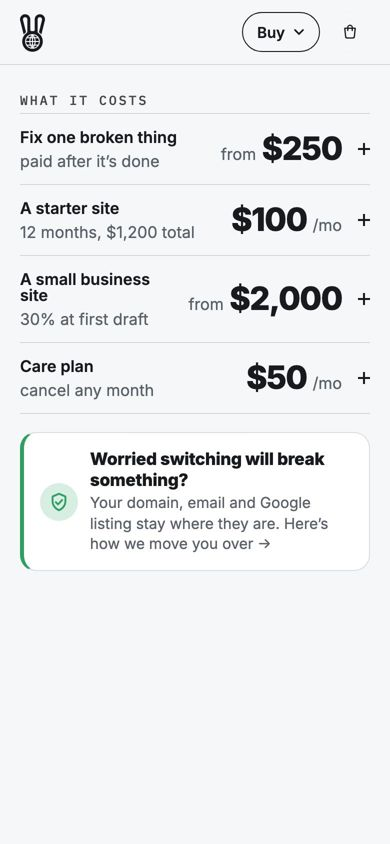
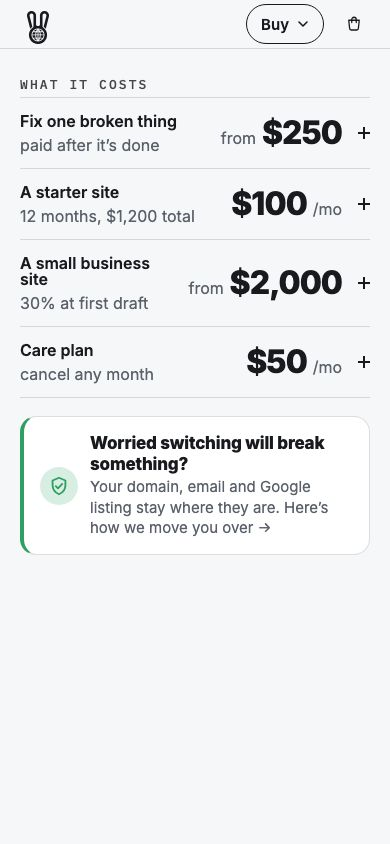
Phones: bigger hero bunny (about 37% of the screen), swipeable row of phone previews with one label and position dots, nav hidden on the hero then a slim sticky bar
The row replaces the trade pills on phones: the centred slide is the chosen shop (its site live, the rest posters;
touches pass through so a swipe never gets stuck in a shop), the Open button and sentence follow it, subtitle says
swipe. The row's min-width:0 keeps it from widening the page. Desktop positions unchanged (checked at 1024 and 1440).
Tests updated first; screenshots re-shot.

diff --git a/bunnyworld/landing.js b/bunnyworld/landing.js
@@ -24,18 +24,20 @@
       const f = sc.querySelector('iframe'), p = sc.querySelector('.poster');
       const kind = sc.closest('.phone') ? 'phone' : 'laptop';
       p.src = `${B}/poster-${k}-${kind}.webp`; sc.classList.remove('live');
-      if (kind === 'laptop' && phoneOnly()) { f.removeAttribute('src'); return; }
+      if (phoneOnly()) { f.removeAttribute('src'); return; }   // phones: the row of previews below runs the chosen shop instead
       f.onload = () => { if (f.getAttribute('src')) sc.classList.add('live'); };
       f.src = `${k}/`;
       f.title = `${t.dataset.name} demo site${kind === 'phone' ? ' on a phone' : ''}, live`;
     });
   };
+  let fromRail = false;
   const select = (t, focus) => {
     if (t === cur && seen) return;
     tabs.forEach(x => { const on = x === t; x.setAttribute('aria-selected', on); x.tabIndex = on ? 0 : -1; });
     stage.setAttribute('aria-labelledby', t.id);
     openShop.href = t.dataset.shop + '/'; openShop.querySelector('b').textContent = t.dataset.name; say.textContent = t.dataset.say;
     pcSync(t);
+    if (!fromRail) railTo(tabs.indexOf(t)); railLive(t);
     stage.classList.remove('swap'); void stage.offsetWidth; if (!reduce) stage.classList.add('swap');
     cur = t; if (seen) load(t);
     if (focus) t.focus();
@@ -49,7 +51,7 @@
       if (j >= 0) { ev.preventDefault(); select(tabs[j], true); }
     });
   });
-  new IntersectionObserver((es, o) => { if (es.some(x => x.isIntersecting)) { seen = true; load(cur); fit(); o.disconnect(); } }, { rootMargin: '300px' }).observe(stage);
+  new IntersectionObserver((es, o) => { if (es.some(x => x.isIntersecting)) { seen = true; load(cur); fit(); railLive(cur); o.disconnect(); } }, { rootMargin: '300px' }).observe(stage);
   addEventListener('resize', () => { if (seen) { const want = phoneOnly(); const has = !!document.querySelector('.laptop iframe').getAttribute('src'); if (want === has) load(cur); } });
 
   /* ---- the switching FAQ: a callout that opens in place into an accordion; deep links #faq-… open straight to a question ---- */
@@ -112,6 +114,39 @@
 
   /* phones: the three "pages" size themselves to the screen minus the demo bar and the sticky bar (brand.css) */
   const topBars = () => { const c = document.querySelector('.credit'), n = document.querySelector('.nav'); if (!c || !n) return;
-    document.documentElement.style.setProperty('--nav-h', n.offsetHeight + 'px'); document.documentElement.style.setProperty('--top-h', (c.offsetHeight + n.offsetHeight) + 'px'); };
+    document.documentElement.style.setProperty('--nav-h', n.offsetHeight + 'px'); document.documentElement.style.setProperty('--top-h', (c.offsetHeight + (getComputedStyle(n).position === 'fixed' ? 0 : n.offsetHeight)) + 'px'); };
   topBars(); addEventListener('resize', topBars); addEventListener('load', topBars);
+
+  /* ---- phones: a swipeable row of phone previews in place of the trade pills (HQ for Tristan, 2026-11-16) ---- */
+  function railBuild() {
+    const esc = x => String(x).replace(/[&<>"]/g, c => ({ '&': '&amp;', '<': '&lt;', '>': '&gt;', '"': '&quot;' })[c]);
+    const r = document.createElement('div'); r.className = 'rail'; r.tabIndex = 0; r.setAttribute('role', 'group'); r.setAttribute('aria-label', 'Shops on Main Street: swipe to choose one');
+    r.innerHTML = tabs.map((t, i) => `<figure class="rail-s" data-i="${i}"><div class="rail-ph"><div class="screen" data-w="390"><img class="poster" src="${B}/poster-${t.dataset.shop}-phone.webp" alt="" width="390" height="844" loading="lazy"><iframe title="${esc(t.dataset.name)} demo site on a phone, live" tabindex="-1" loading="lazy"></iframe></div></div><figcaption><b>${esc(t.querySelector('.ts').textContent)}</b> ${esc(t.dataset.name)}</figcaption></figure>`).join('');
+    stage.insertBefore(r, stage.querySelector('.show-foot'));
+    const dots = document.createElement('div'); dots.className = 'rail-dots'; dots.setAttribute('aria-hidden', 'true'); dots.innerHTML = tabs.map(() => '<i></i>').join('');
+    stage.insertBefore(dots, stage.querySelector('.show-foot'));
+    let tid = 0;
+    const settle = () => { const mid = r.scrollLeft + r.clientWidth / 2; let best = 0, d = 1e9;
+      r.querySelectorAll('.rail-s').forEach((s, i) => { const c = s.offsetLeft + s.offsetWidth / 2; if (Math.abs(c - mid) < d) { d = Math.abs(c - mid); best = i; } });
+      if (tabs[best] !== cur) { fromRail = true; select(tabs[best]); fromRail = false; } else railLive(cur); };
+    r.addEventListener('scroll', () => { clearTimeout(tid); tid = setTimeout(settle, 120); }, { passive: true });
+    return r;
+  }
+  const rail = railBuild();
+  function railTo(i) { if (!phoneOnly() || i < 0) return; const s = rail.querySelectorAll('.rail-s')[i]; rail.scrollTo({ left: s.offsetLeft - (rail.clientWidth - s.offsetWidth) / 2, behavior: reduce ? 'auto' : 'smooth' }); }
+  /* only the chosen slide runs its site live (the others show their posters), and only once the section is near */
+  function railLive(t) { const k = tabs.indexOf(t);
+    rail.querySelectorAll('.rail-s').forEach((s, i) => { const f = s.querySelector('iframe'), sc = s.querySelector('.screen'), on = i === k; s.classList.toggle('on', on); const d = document.querySelectorAll('#shops .rail-dots i')[i]; if (d) d.classList.toggle('on', on);
+      if (on && seen && phoneOnly()) { if (!f.getAttribute('src')) { f.onload = () => sc.classList.add('live'); f.src = t.dataset.shop + '/'; }
+        const kk = sc.clientWidth / 390; f.style.width = '390px'; f.style.height = (sc.clientHeight / kk) + 'px'; f.style.transform = `scale(${kk})`; }
+      else if (f.getAttribute('src')) { f.removeAttribute('src'); sc.classList.remove('live'); } }); }
+  new IntersectionObserver((es, o) => { if (es.some(x => x.isIntersecting)) { railLive(cur); o.disconnect(); } }, { rootMargin: '300px' }).observe(rail);
+  railLive(cur);
+
+  /* ---- phones: no nav on the hero page; a slim sticky bar once the hero has gone ---- */
+  const heroEl = document.querySelector('.hero');
+  /* shown once the hero's bottom reaches where the bar sits (so a page snapped under the bar always has it) */
+  let navRaf = 0; const navCheck = () => { navRaf = 0; const n = document.querySelector('.nav'); if (!heroEl || !n) return;
+    document.documentElement.classList.toggle('past-hero', heroEl.getBoundingClientRect().bottom <= n.offsetHeight + 1); };
+  addEventListener('scroll', () => { if (!navRaf) navRaf = requestAnimationFrame(navCheck); }, { passive: true }); addEventListener('resize', navCheck); navCheck();
 })();

diff --git a/bunnyworld/index.html b/bunnyworld/index.html
@@ -18,7 +18,7 @@ window.dataLayer=window.dataLayer||[];function gtag(){dataLayer.push(arguments);
 <link rel="preconnect" href="https://fonts.googleapis.com"><link rel="preconnect" href="https://fonts.gstatic.com" crossorigin>
 <link rel="stylesheet" href="https://fonts.googleapis.com/css2?family=Gabarito:wght@500;700;800;900&family=Big+Shoulders+Display:wght@900&family=Young+Serif&family=Fraunces:opsz,wght@9..144,900&family=Inter:wght@400;500;600;800&family=IBM+Plex+Mono:wght@500&family=Caveat:wght@600&display=swap">
 <link rel="stylesheet" href="/preview/assets/shop/cart.css">
-<link rel="stylesheet" href="brand.css?v=52">
+<link rel="stylesheet" href="brand.css?v=54">
 </head>
 <body>
 <div class="credit">A <span class="cr-wide">demo by </span><a class="credit-sog" href="https://seaofgrass.studio/">Sea of Grass</a><span class="cr-wide"> &middot; every shop works, nothing is sent</span><span class="cr-phone"> demo &middot; nothing is sent</span></div>
@@ -64,7 +64,7 @@ window.dataLayer=window.dataLayer||[];function gtag(){dataLayer.push(arguments);
 </div>
 
 <section class="show band" id="shops"><div class="in">
-<div class="show-head"><p class="kick">Main Street</p><h2>What kind of shop do you run?</h2><p class="show-sub"><span class="on-wide">Pick your trade and its site opens right here for you to try.</span><span class="on-phone">Tap your trade and its site opens right here.</span></p></div>
+<div class="show-head"><p class="kick">Main Street</p><h2>What kind of shop do you run?</h2><p class="show-sub"><span class="on-wide">Pick your trade and its site opens right here for you to try.</span><span class="on-phone">Swipe to see each shop&rsquo;s site.</span></p></div>
 <div class="show-grid">
 <div class="tabs" role="tablist" aria-label="Trades on Main Street" aria-orientation="vertical"><button class="tab" role="tab" id="tab-bunny-burritos" aria-controls="stage" aria-selected="true" tabindex="0" data-shop="bunny-burritos" data-name="Bunny Burritos" data-say="Bunny Burritos has a menu with filters, pickup ordering and table booking."><b class="tl">A restaurant</b><b class="ts">Restaurant</b><span class="tt">Bunny Burritos</span></button><button class="tab" role="tab" id="tab-bunny-auto" aria-controls="stage" aria-selected="false" tabindex="-1" data-shop="bunny-auto" data-name="Bunny Auto" data-say="Bunny Auto has a printed price list, an estimate tool and service booking."><b class="tl">An auto shop</b><b class="ts">Auto shop</b><span class="tt">Bunny Auto</span></button><button class="tab" role="tab" id="tab-warren-bakehouse" aria-controls="stage" aria-selected="false" tabindex="-1" data-shop="warren-bakehouse" data-name="The Warren Bakehouse" data-say="The Warren Bakehouse shows today&rsquo;s case live, and takes cake orders and pickup holds."><b class="tl">A bakery or café</b><b class="ts">Bakery</b><span class="tt">The Warren Bakehouse</span></button><button class="tab" role="tab" id="tab-hare-today" aria-controls="stage" aria-selected="false" tabindex="-1" data-shop="hare-today" data-name="Hare Today" data-say="Hare Today has a live chair board, booking by barber and a page for joining the crew."><b class="tl">A barber or salon</b><b class="ts">Barber</b><span class="tt">Hare Today</span></button><button class="tab" role="tab" id="tab-hop-along" aria-controls="stage" aria-selected="false" tabindex="-1" data-shop="hop-along" data-name="Hop Along" data-say="Hop Along has a live tap list, this week&rsquo;s events and back-room requests."><b class="tl">A bar or taproom</b><b class="ts">Bar</b><span class="tt">Hop Along</span></button><button class="tab" role="tab" id="tab-cottontail-farm" aria-controls="stage" aria-selected="false" tabindex="-1" data-shop="cottontail-farm" data-name="Cottontail Farm" data-say="Cottontail Farm has a season switcher, timed tickets and a map of the farm."><b class="tl">A farm or festival</b><b class="ts">Farm</b><span class="tt">Cottontail Farm</span></button><button class="tab" role="tab" id="tab-burrow-and-bough" aria-controls="stage" aria-selected="false" tabindex="-1" data-shop="burrow-and-bough" data-name="Burrow &amp; Bough" data-say="Burrow &amp; Bough has an online shop with gift wrap, and pickup or shipping."><b class="tl">A gift shop</b><b class="ts">Gift shop</b><span class="tt">Burrow &amp; Bough</span></button><button class="tab" role="tab" id="tab-long-ears" aria-controls="stage" aria-selected="false" tabindex="-1" data-shop="long-ears" data-name="Long Ears" data-say="Long Ears has the August Test, blowout booking and quotes from your photos."><b class="tl">Landscaping or trades</b><b class="ts">Landscaping</b><span class="tt">Long Ears</span></button><button class="tab" role="tab" id="tab-hopwell-chiro" aria-controls="stage" aria-selected="false" tabindex="-1" data-shop="hopwell-chiro" data-name="Hopwell" data-say="Hopwell has patient booking, an insurance check and online intake."><b class="tl">A clinic</b><b class="ts">Clinic</b><span class="tt">Hopwell</span></button></div>
 <div class="stage" id="stage" role="tabpanel" aria-labelledby="tab-bunny-burritos">
@@ -82,7 +82,7 @@ window.dataLayer=window.dataLayer||[];function gtag(){dataLayer.push(arguments);
 <script src="headline.js?v=4" defer></script>
 <script>/* phones: the shops sit between the hero and the prices, so the smoke covers the hero page alone there (desktop: hero and prices) */try{if(matchMedia("(max-width:760px)").matches){var sh=document.querySelector(".hero-host");sh.removeAttribute("data-smoke");sh.querySelector(".hero").setAttribute("data-smoke","")}}catch(e){}</script>
 <script src="smoke.js?v=4" defer></script>
-<script src="landing.js?v=7" defer></script>
+<script src="landing.js?v=9" defer></script>
 <script src="/preview/assets/shop/checkout-links.js" defer></script>
 <script src="/preview/assets/shop/cart.js" defer></script>
 <script src="buy.js?v=1" defer></script>

diff --git a/bunnyworld/brand.css b/bunnyworld/brand.css
@@ -551,3 +551,33 @@ html:not([data-look]) .hero[data-logo="centre"] h1,html[data-look="clean"] .hero
   .plans-kick{display:block;margin:0 0 4px}
   .plans .prices{margin-top:0}
   .hero[data-logo="centre"] .lh-fix{display:inline-flex;align-items:center;gap:6px;min-height:40px;margin-top:10px;color:var(--soft);font:500 15px/1 var(--bf);text-decoration:underline;text-underline-offset:4px;text-decoration-thickness:1px}}
+
+/* ===== Phones, round 3 (HQ for Tristan, 2026-11-16): a bigger hero logo; no nav on the hero page, then a slim sticky
+   bar once the hero has gone (landing.js sets html.past-hero; focus inside the nav always shows it); and a swipeable
+   row of phone previews in place of the trade pills (built by landing.js; the slide in the middle is the chosen shop,
+   its site live, the others as posters; touches pass through to the row so a swipe never gets stuck in a shop). */
+@media (max-width:760px){
+  .hero[data-logo="centre"]{--u-logo-h:clamp(240px, 37svh, 330px)}   /* HQ review: the bunny leads its page, about 37% of the screen */
+  .nav{position:fixed;left:0;right:0;top:0;padding:4px 16px;transform:translateY(-100%);transition:transform .25s var(--ease)}
+  html.past-hero .nav,.nav:focus-within{transform:none}
+  .nav .logo{min-height:40px}.nav .logo .mk{width:22px;height:33px}
+  .rail{display:flex;align-self:stretch;min-width:0;max-width:100vw;gap:14px;margin:0 calc(-1 * var(--side));padding:2px calc(50vw - 115px) 4px;overflow-x:auto;overscroll-behavior-x:contain;scroll-snap-type:x mandatory;scrollbar-width:none;-webkit-overflow-scrolling:touch}
+  .rail::-webkit-scrollbar{display:none}
+  .rail:focus-visible{outline:3px solid var(--stage-accent);outline-offset:-3px}
+  .rail-s{flex:0 0 230px;margin:0;display:grid;gap:8px;justify-items:stretch;scroll-snap-align:center;opacity:.5;transition:opacity .2s}
+  .rail-s.on{opacity:1}
+  .rail-ph{padding:7px;background:#0d0b1c;border:1px solid rgba(255,246,233,.35);border-radius:28px}
+  .rail-ph .screen{aspect-ratio:390/560;border-radius:22px}
+  .rail-s iframe{pointer-events:none}
+  .rail-s figcaption{font:400 14px/1.2 var(--bf);color:var(--on-stage);text-align:center}
+  .rail-s figcaption b{font-weight:700}
+  .show .tabs,.stage>.phone{display:none}}
+@media (min-width:761px){.rail{display:none}}
+@media (max-width:760px){
+  /* only the centred shop is labelled (peeking labels collided), and dots under it show where you are in the row */
+  .rail-s figcaption{visibility:hidden;opacity:0;transition:opacity .2s}
+  .rail-s.on figcaption{visibility:visible;opacity:1}
+  .rail-dots{display:flex;justify-content:center;gap:7px;margin-top:-4px}
+  .rail-dots i{width:6px;height:6px;border-radius:50%;background:color-mix(in srgb,var(--on-stage) 30%,transparent);transition:background .2s,transform .2s}
+  .rail-dots i.on{background:var(--on-stage);transform:scale(1.25)}}
+@media (min-width:761px){.rail-dots{display:none}}
